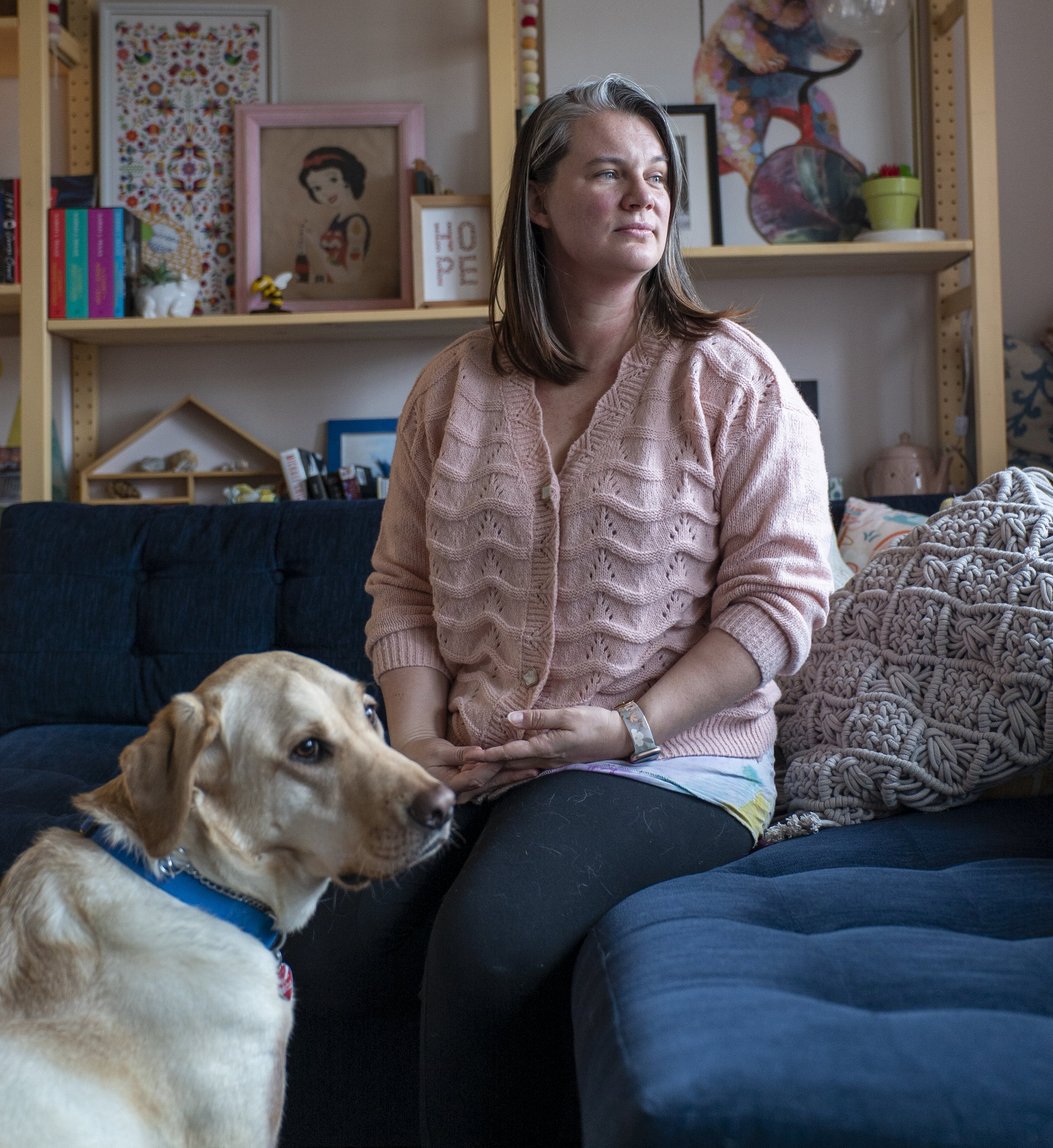
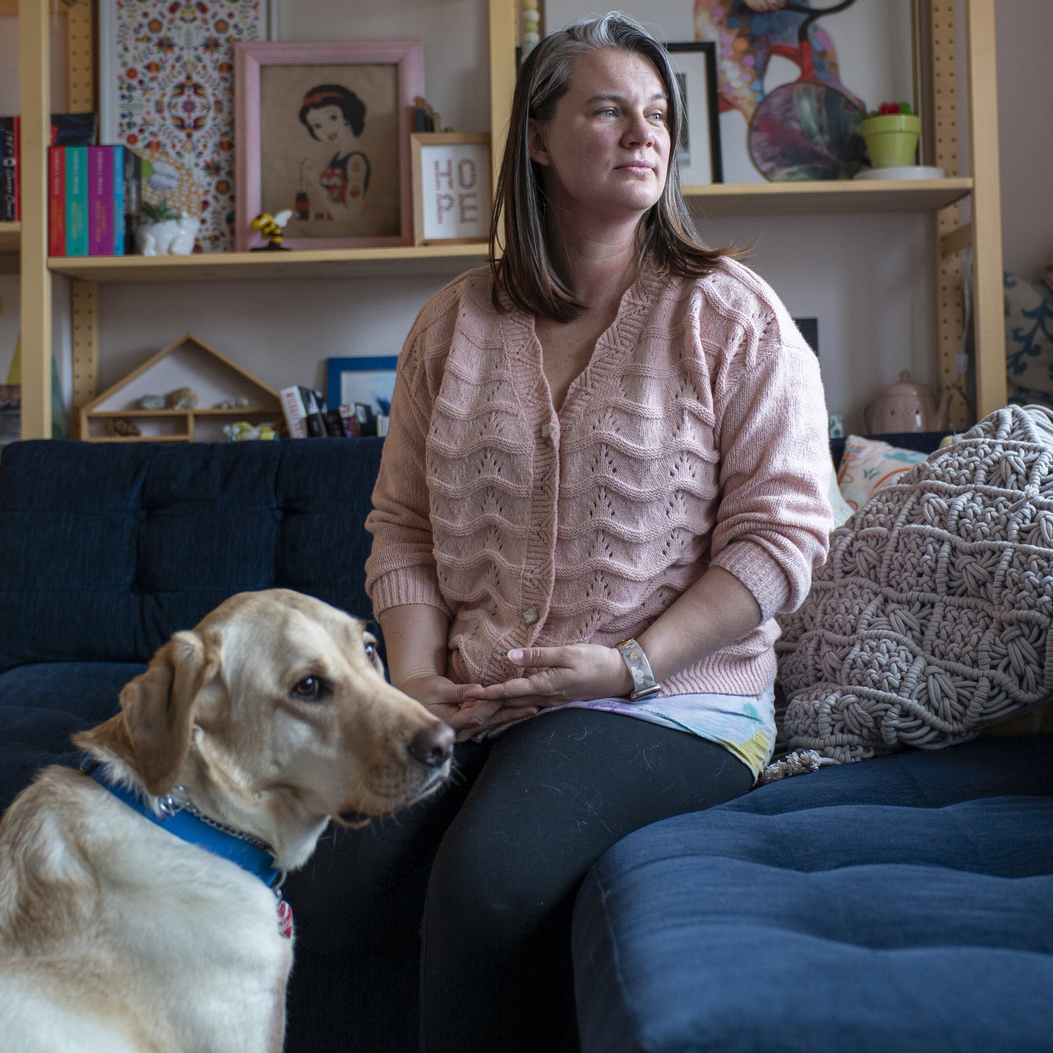
cropped some images to make my life easier

diff --git a/com.ericdschmid/src/routes/+page.svelte b/com.ericdschmid/src/routes/+page.svelte
@@ -23,16 +23,21 @@
         <img class="object-cover object-center h-full" src="./src/lib/images/nascar.jpeg" alt="Alicia Steel sitting with her son's service dog."/>
     </div>
 
-<div>
-    Eric Schmid is a multimedia journalist based in St. Louis with 5+ years experience primarily in print-, digital-, and audio-focused newsrooms. He has demonstrated success developing strong continuing news coverage and producing large scale reporting projects independently and as part of a team. This includes advanced skill with source building, story pitching, public records, long-term coverage planning, interviewing, and audio editing/mixing. 
-
-His reporting experience spans from breaking hard news to enterprise and investigative features and he excels at producing content native to digital/print and audio/radio platforms. Eric gravitates toward complicated stories with many moving parts and enjoys the challenge of ingesting and distilling large swaths of information into cohesive, intriguing, and manageable stories. He is adept at covering most topics, though his enterprise work regularly returns to stories about the environment, public policy, and the census and demographics.
-
-Eric joined St. Louis Public Radio in June 2019 as their first ever Metro East Reporter, tasked with expanding and developing the station’s coverage of suburban St. Louis communities east of the Mississippi River. In June 2022, he was promoted to cover economic development across St. Louis, a region of 2.8 million people. 
-
-Before joining St. Louis Public Radio, Eric held internships at Fox News Channel, NPR member station WSHU Public Radio, and AccuWeather. He graduated from Stony Brook University in 2018 as the valedictorian of the School of Journalism.
-
-Lead image by Brian Muñoz. All other photography on this page by Eric Schmid.
+<div class="max-w-screen-lg block mr-auto ml-auto text-2xl">
+    <p class="m-7">Eric Schmid is a multimedia journalist based in St. Louis with 5+ years experience primarily in print-, digital-, and audio-focused newsrooms. 
+        He has demonstrated success developing strong continuing news coverage and producing large scale reporting projects independently and as part 
+        of a team. This includes advanced skill with source building, story pitching, public records, long-term coverage planning, interviewing, and 
+        audio editing/mixing.</p>
+    <p class="m-7">His reporting experience spans from breaking hard news to enterprise and investigative features and he excels at producing content native to 
+        digital/print and audio/radio platforms. Eric gravitates toward complicated stories with many moving parts and enjoys the challenge of ingesting 
+        and distilling large swaths of information into cohesive, intriguing, and manageable stories. He is adept at covering most topics, though his 
+        enterprise work regularly returns to stories about the environment, public policy, and the census and demographics.</p>
+    <p class="m-7">Eric joined St. Louis Public Radio in June 2019 as their first ever Metro East Reporter, tasked with expanding and developing the station’s 
+        coverage of suburban St. Louis communities east of the Mississippi River. In June 2022, he was promoted to cover economic development across St. 
+        Louis, a region of 2.8 million people.</p>
+    <p class="m-7">Before joining St. Louis Public Radio, Eric held internships at Fox News Channel, NPR member station WSHU Public Radio, and AccuWeather. He graduated 
+        from Stony Brook University in 2018 as the valedictorian of the School of Journalism.</p>
+    <p class="m-7">Lead image by Brian Muñoz. All other photography on this page by Eric Schmid.</p>
 </div>
 
 </section> 
